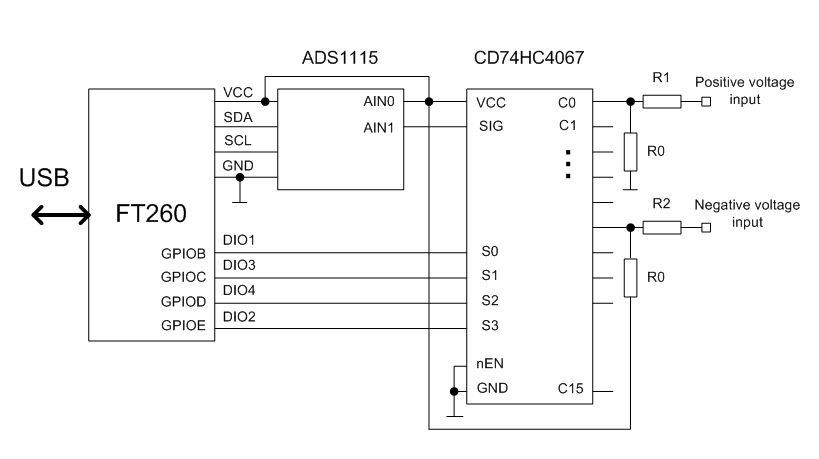
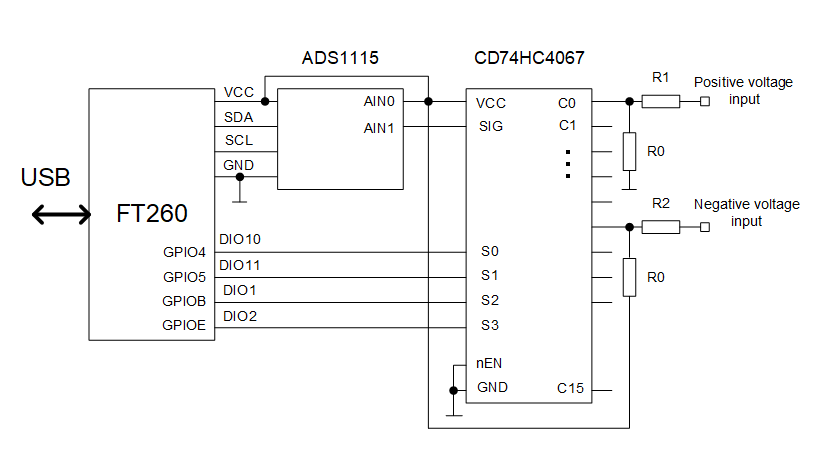
MUX pins changed

diff --git a/adapters/ads1115_mux.py b/adapters/ads1115_mux.py
@@ -1,6 +1,6 @@
 """
 Helper functions for using ADS115 with FT260 adapter and 16 channel external
-multiplexer (CD74HC4067) driven by GPIOB,C,D,E outputs of FT260.
+multiplexer (CD74HC4067) driven by GPIO outputs of FT260.
 See https://www.ti.com/lit/ds/symlink/cd74hc4067.pdf
 """
 
@@ -13,19 +13,19 @@ from device import Device
 from ads1115 import ADS1115Device
 import ft260
 
-MUX_GPIO_MASK = ft260.GPIOB | ft260.GPIOC | ft260.GPIOD | ft260.GPIOE
-
 def channel_to_gpio_bits(channel: int) -> int:
     val = 0
     if channel & 1:
-        val += ft260.GPIOB
+        val += ft260.GPIO4
     if channel & 2:
-        val += ft260.GPIOC
+        val += ft260.GPIO5
     if channel & 4:
-        val += ft260.GPIOD
+        val += ft260.GPIOB
     if channel & 8:
         val += ft260.GPIOE
     return val
+
+MUX_GPIO_MASK = channel_to_gpio_bits(0xf)
 
 def mux_read_positive(dev: ADS1115Device,
         channel: int, div: float, gain: int = 0,
